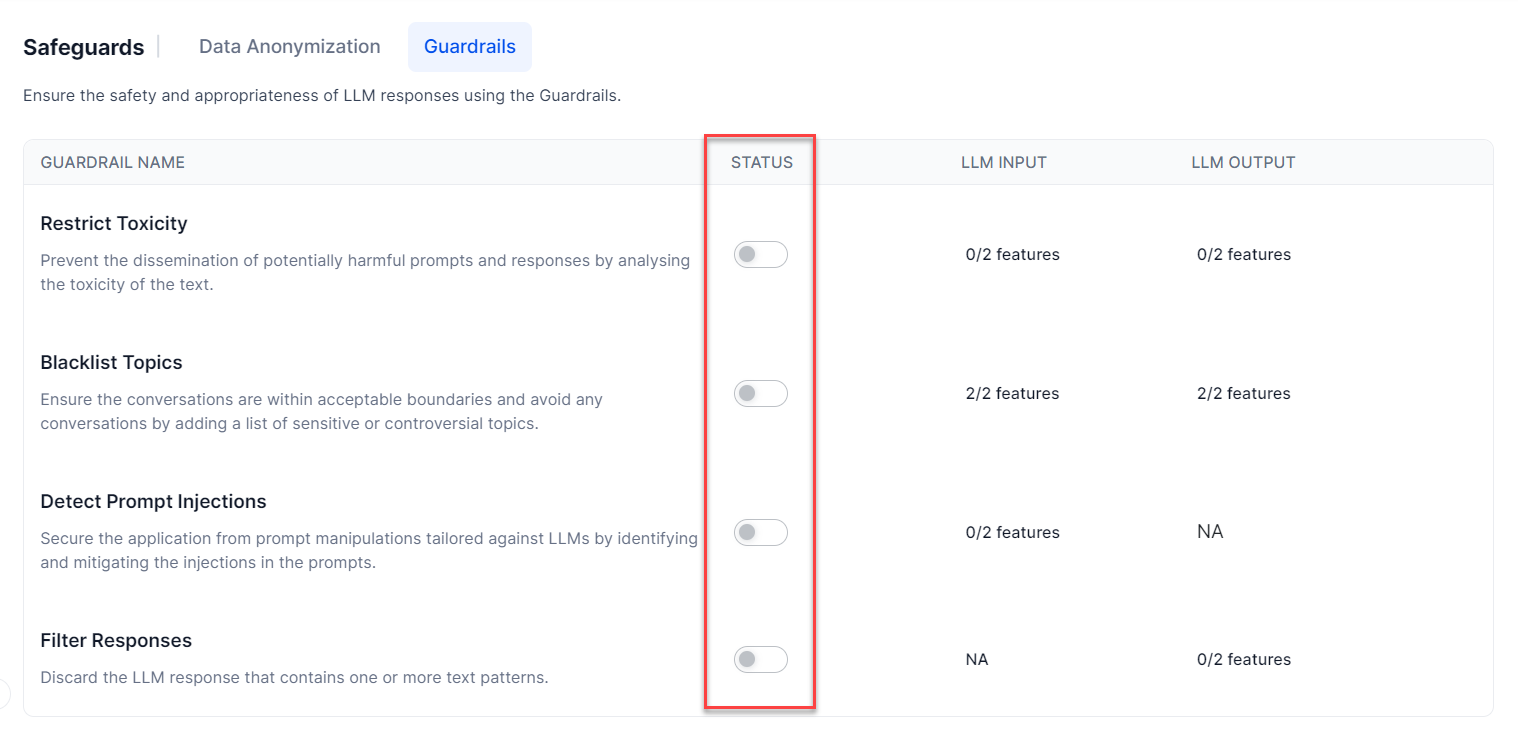
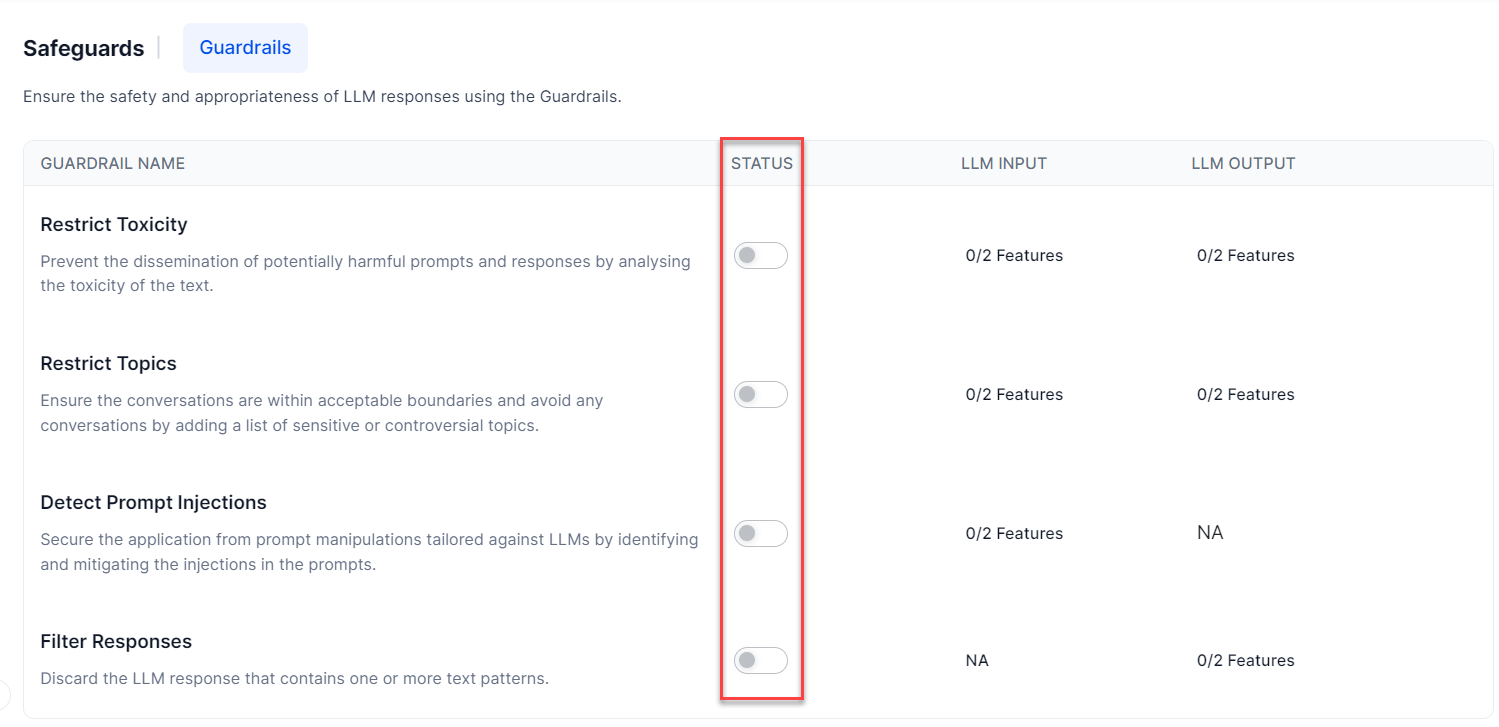
guardrails

diff --git a/docs/xo/generative-ai-tools/guardrails.md b/docs/xo/generative-ai-tools/guardrails.md
@@ -20,11 +20,11 @@ This guardrail analyzes and prevents the dissemination of potentially harmful co
 
 For example, you can detect scenarios where the LLM has generated toxic content that your customers may find inappropriate. 
 
-### Blacklist Topics
+### Restrict Topics
 
-Ensure the conversations are within acceptable boundaries and avoid any conversations by adding a list of sensitive or controversial topics. Define the topics to be blacklisted in the guardrails and ensure the LLM is not responding to requests related to that topic.  
+Ensure the conversations are within acceptable boundaries and avoid any conversations by adding a list of sensitive or controversial topics. Define the topics to be restricted in the guardrails and ensure the LLM is not responding to requests related to that topic.  
 
-For example, you can blacklist the topics like politics, violence, religion, etc.
+For example, you can Restrict the topics like politics, violence, religion, etc.
 
 !!! note
 
@@ -64,7 +64,7 @@ The Guardrails are currently available for the following features: **GenAI Node*
   <tr>
     <td>Guardrail</td>
     <td colspan="2">Restrict Toxicity</td>
-    <td colspan="2">Blacklist Topics</td>
+    <td colspan="2">Restrict Topics</td>
     <td colspan="2">Detect Prompt Injections</td>
     <td colspan="2">Filter Responses</td>
   </tr>

diff --git a/docs/xo/automation/natural-language/training/machine-learning-engine.md b/docs/xo/automation/natural-language/training/machine-learning-engine.md
@@ -289,7 +289,7 @@ Thus, the intents have to be defined very well. This approach is well-suited for
 
     If required, the user can add dialogs for the intents.
 
-2. The user should enable the **Zero-Shot Network Type** under **Training**
+2. The user should enable the **Zero-Shot Network Type** under **Training**.
 3. The system identifies the most logical intent by matching the user utterance with the defined intent names (without training utterances). It then responds with the relevant intent. Intents identified by the **Zero-Shot** model are considered definitive matches.
 
 **Rescoring of Intents for Definitive Matches**
